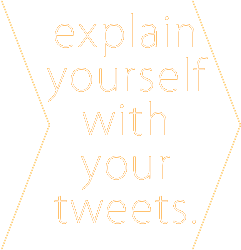
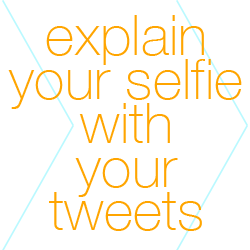
fix UI.

diff --git a/src/main/resources/assets/js/view_model/RedirectToAuthUrlViewModel.js b/src/main/resources/assets/js/view_model/RedirectToAuthUrlViewModel.js
@@ -1,0 +1,96 @@
+var RedirectToAuthUrlViewModel;
+
+(function(){
+    
+    var words = LanguageModel.defaultWords;
+    
+    RedirectToAuthUrlViewModel = function RedirectToAuthUrlViewModel(contoursListJson)
+    {
+        var storage = sessionStorage,
+            contoursList = JSON.parse(contoursListJson),
+            contoursListLength = 0,
+            svg = '',
+            path = '';
+        
+        if (contoursList === null || contoursList.length <= 0)
+        {
+            alert(words['no contours']);
+            location.href = '/';
+        }
+
+        contoursListLength = contoursList.length;
+        storage.setItem('ContoursList', contoursListJson);
+        
+        self.contoursListToPathElements = function contoursListToPathElements(contoursList)
+        {
+            var path = '',
+                contoursListIndex = 0,
+                contoursIndex = 0,
+                pointsIndex = 0,
+                contours = [],
+                thresholdLevel = 0,
+                contoursLength = 0,
+                points = [],
+                pointsLength = 0,
+            point = {};
+    
+            for (contoursListIndex = 0; contoursListIndex < contoursListLength; contoursListIndex++)
+            {
+                contours = contoursList[contoursListIndex].contours,
+                thresholdLevel = contoursList[contoursListIndex].thresholdLevel,
+                contoursLength = contours.length;
+            
+                for (contoursIndex = 0; contoursIndex < contoursLength; contoursIndex++)
+                {
+                    points = contours[contoursIndex].points,
+                    pointsLength = points.length;
+                    
+                    path += '<path id="textpath-' +
+                                contoursListIndex +
+                                '-' +
+                                contoursIndex +
+                                '" fill="none" stroke="#000000" strokeWidth="2" d="';
+    
+                    for (pointsIndex = 0; pointsIndex < pointsLength; pointsIndex++)
+                    {
+                        point = points[pointsIndex];
+                        if (pointsIndex === 0)
+                        {
+                            path += 'M';
+                        }
+                        else
+                        {
+                            path += ' L';
+                        }
+                        path += point.x + ',' + point.y;
+                    }
+                    path += ' z" />';
+                }
+            }
+            return path;
+        };
+        path = self.contoursListToPathElements(contoursList);
+        
+        svg = '<svg xmlns="http://www.w3.org/2000/svg"' +
+        ' xmlns:xlink="http://www.w3.org/1999/xlink"' +
+        ' version="1.1"' +
+        ' id="charavatar" width="100%" height="100%" viewBox="0 0 480 480">' +
+        path +
+        '</svg>';
+
+        self.svgValue = ko.observable(svg);
+        
+        self.progressText = words['contours'] + '<br />' + words['redirecting to Twitter'];
+    };
+    
+    ko.applyBindings(new RedirectToAuthUrlViewModel(contoursListJson));
+
+    setTimeout(
+            function()
+            {
+                location.href = '/service/tweets/authUrl';
+            },
+            1000
+        );
+
+}());

diff --git a/src/main/resources/assets/js/model/LanguageModel.js b/src/main/resources/assets/js/model/LanguageModel.js
@@ -37,6 +37,14 @@ var LanguageModel = {};
         'teaser src': 'teaser.en',
         'first step': '1. take your selfie.',
         'second step': '2. push selfie to CHARAVATAR.',
+        'no contours': 'No contours found. Please take your selfie again.',
+        'contours': 'Contours found as below.',
+        'redirecting to Twitter': 'redirecting to Twitter...',
+        'no auth URL': 'CHARAVATAR failed to get Twitter authentication URL.',
+        'no tweets': 'No tweets found. Back to top...',
+        'completed': 'Completed to trace your selfie with your tweets!',
+        'share this avatar': 'share this avatar',
+        'return': 'return to the first',
         'twitter data-lang': 'en-US',
         'twitter data-text': 'I made my avatar with CHARAVATAR. Please look at it! ::',
         'share URL description': 'You can share this avatar with below URL.',
@@ -48,6 +56,14 @@ var LanguageModel = {};
         'teaser src': 'teaser.ja',
         'first step': '1. 自画撮りしよう',
         'second step': '2. CHARAVATARに送信しよう',
+        'no contours': '写真の輪郭を見つけられませんでした。写真を撮り直してください。',
+        'contours': '写真の輪郭はこんな感じになりました。',
+        'redirecting to Twitter': 'Twitter に接続しています...',
+        'no auth URL': 'Twitterの認証用URLを取得できませんでした。',
+        'no tweets': 'ツイートを取得できませんでした。最初からやり直してください。',
+        'completed': '写真の輪郭をツイートでなぞりました！',
+        'share this avatar': 'このアバターを公開する',
+        'return': '最初からやり直す',
         'twitter data-lang': 'ja',
         'twitter data-text': 'CHARAVATAR でアバターを作りました。 みんな見てね！ ::',
         'share URL description': 'このアバターは次のURLで共有できます。',

diff --git a/src/main/resources/assets/js/view_model/SVGCanvasViewModel.js b/src/main/resources/assets/js/view_model/SVGCanvasViewModel.js
@@ -2,6 +2,8 @@ var SVGCanvasViewModel;
 
 (function(){
 
+    var words = LanguageModel.defaultWords;
+    
     SVGCanvasViewModel = function SVGCanvasViewModel(tweetWordsJson)
     {
         var storage = sessionStorage,
@@ -13,10 +15,12 @@ var SVGCanvasViewModel;
             svg = '',
             path = '',
             textPath = '';
+        
+        self.isSubmitEnable = ko.observable(false);
     
         if (contoursList === null || contoursList.length <= 0)
         {
-            alert('no contour.');
+            alert(words['no contours']);
             location.href = '/';
         }
 
@@ -133,22 +137,20 @@ var SVGCanvasViewModel;
         svg = '<svg xmlns="http://www.w3.org/2000/svg"' +
                     ' xmlns:xlink="http://www.w3.org/1999/xlink"' +
                     ' version="1.1"' +
-                    ' id="charavatar" width="480" height="480"><defs>' +
+                    ' id="charavatar" width="100%" height="100%" viewBox="0 0 480 480"><defs>' +
                     path +
                     '</defs><g font-size="12px">' +
                     textPath +
                     '</g></svg>';
 
         self.svgValue = ko.observable(svg);
-        
+
+        self.progressText = words['completed'];
+        self.isSubmitEnable(true);
+        self.shareAvatarText = words['share this avatar'];
+        self.returnText = words['return'];
     };
     
     ko.applyBindings(new SVGCanvasViewModel(this.tweetJsonString));
     
-    setTimeout(submitSvg, 100);
-    
-    function submitSvg()
-    {
-        document.getElementById('svg_form').submit();
-    }
 }());

diff --git a/src/main/resources/assets/css/styles.css b/src/main/resources/assets/css/styles.css
@@ -1,5 +1,5 @@
 .header {
-    background-color: orange;
+    background-color: #ffa500;
     border: 1px solid #ffffff;
     color: #ffffff;
     font-size: 200%;
@@ -11,16 +11,20 @@
     width: 100%;
 }
 
+.teaser {
+    background-color: #ffffff;
+    border: 1px solid #ffa500;
+    margin: 1px auto;
+}
+
 .introduction {
-    background-color: orange;
-    border: 1px solid #ffffff;
-    color: #ffffff;
+    color: #ffa500;
     font-size: 150%;
     text-align: center;
 }
 
 .introduction img {
-    max-width: 240px;
+    max-width: 250px;
     width: 100%;
 }
 
@@ -30,8 +34,9 @@
 }
 
 .teaser-image img {
-    width: 100%;
-    min-height: 160px;
+    display: block;
+    margin: 15%;
+    width: 70%;
 }
 
 .first-step {
@@ -53,8 +58,25 @@
     text-align: center;
 }
 
-.canvas {
+.charavatar-progress {
+    background-color: #baf9ff;
+    color: #000000;
+    padding: 10px;
     text-align: center;
+}
+
+.share-avatar {
+    text-align: center;
+}
+
+.canvas {
+    margin: 10px;
+    text-align: center;
+    width: 100%;
+}
+
+.canvas svg {
+    max-height: 480px;
     width: 100%;
 }
 
@@ -65,12 +87,16 @@
 }
 
 .share {
-    margin: 10px;
+    margin: 10px auto;
     text-align: center;
 }
 
 .share-url-field {
-    background-color: #e0e0e0;
+    float: none;
     margin: 5px auto;
-    width: 50%;
+}
+
+.social-button {
+    height: 40px;
+    margin: 10px 0;
 }

diff --git a/src/main/resources/assets/index.htm b/src/main/resources/assets/index.htm
@@ -26,7 +26,7 @@
         </div>
     </div>
 
-    <div class="row">
+    <div class="row teaser">
         <div class="col-xs-3 col-sm-3 col-md-3 teaser-image">
             <img class="img-circle" data-bind="attr: teaserImage1Attributes" />
         </div>
